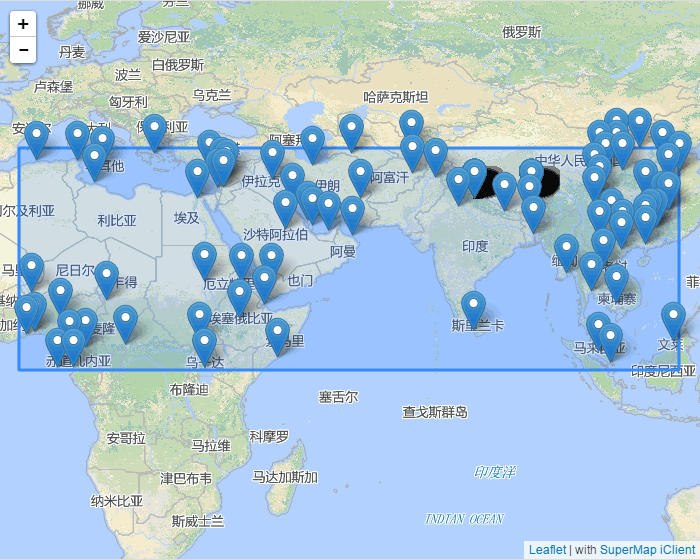
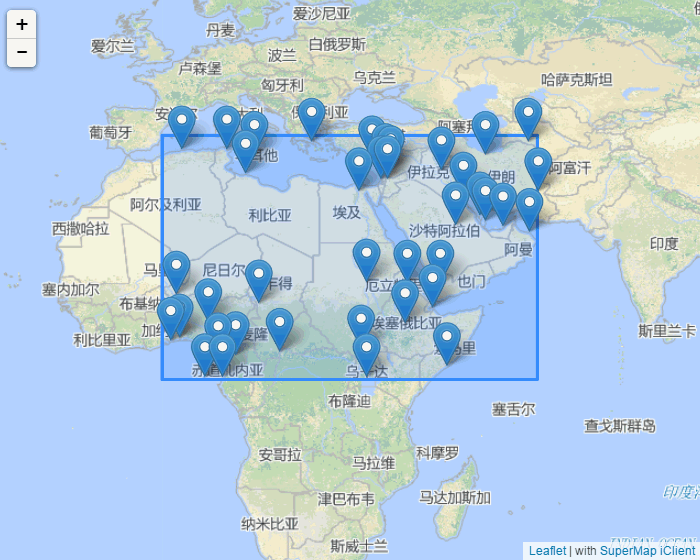
修改leaflet示例中地图查询服务的查询范围以及对应示例的预览图。review by zhurch

diff --git a/examples/leaflet/01_mapQueryByDistance.html b/examples/leaflet/01_mapQueryByDistance.html
@@ -24,13 +24,13 @@
     });
     L.supermap.tiledMapLayer(url).addTo(map);
     circleMarker = L.circleMarker([30, 104], {color: 'red'}).addTo(map);
-    circleMarker.bindPopup('distance = 30').openPopup();
+    circleMarker.bindPopup('distance = 10').openPopup();
     query();
 
     function query() {
         var param = new QueryByDistanceParameters({
             queryParams: {name: "Capitals@World.1"},
-            distance: 30,
+            distance: 10,
             geometry: circleMarker
         });
         L.supermap.queryService(url).queryByDistance(param).on("complete", function (serviceResult) {

diff --git a/examples/leaflet/01_mapQueryByBounds.html b/examples/leaflet/01_mapQueryByBounds.html
@@ -18,7 +18,7 @@
     map = L.map('map', {
         preferCanvas: true,
         crs: L.CRS.EPSG4326,
-        center: {lon: 60, lat: 0},
+        center: {lon: 0, lat: 0},
         maxZoom: 18,
         zoom: 2
     });
@@ -26,7 +26,7 @@
     query();
 
     function query() {
-        var polygon = L.polygon([[0, 0], [39, 0], [39, 116], [0, 116], [0, 0]]);
+        var polygon = L.polygon([[0, 0], [39, 0], [39, 60], [0, 60], [0, 0]]);
         polygon.addTo(map);
         var param = new QueryByBoundsParameters({
             queryParams: {name: "Capitals@World.1"},
